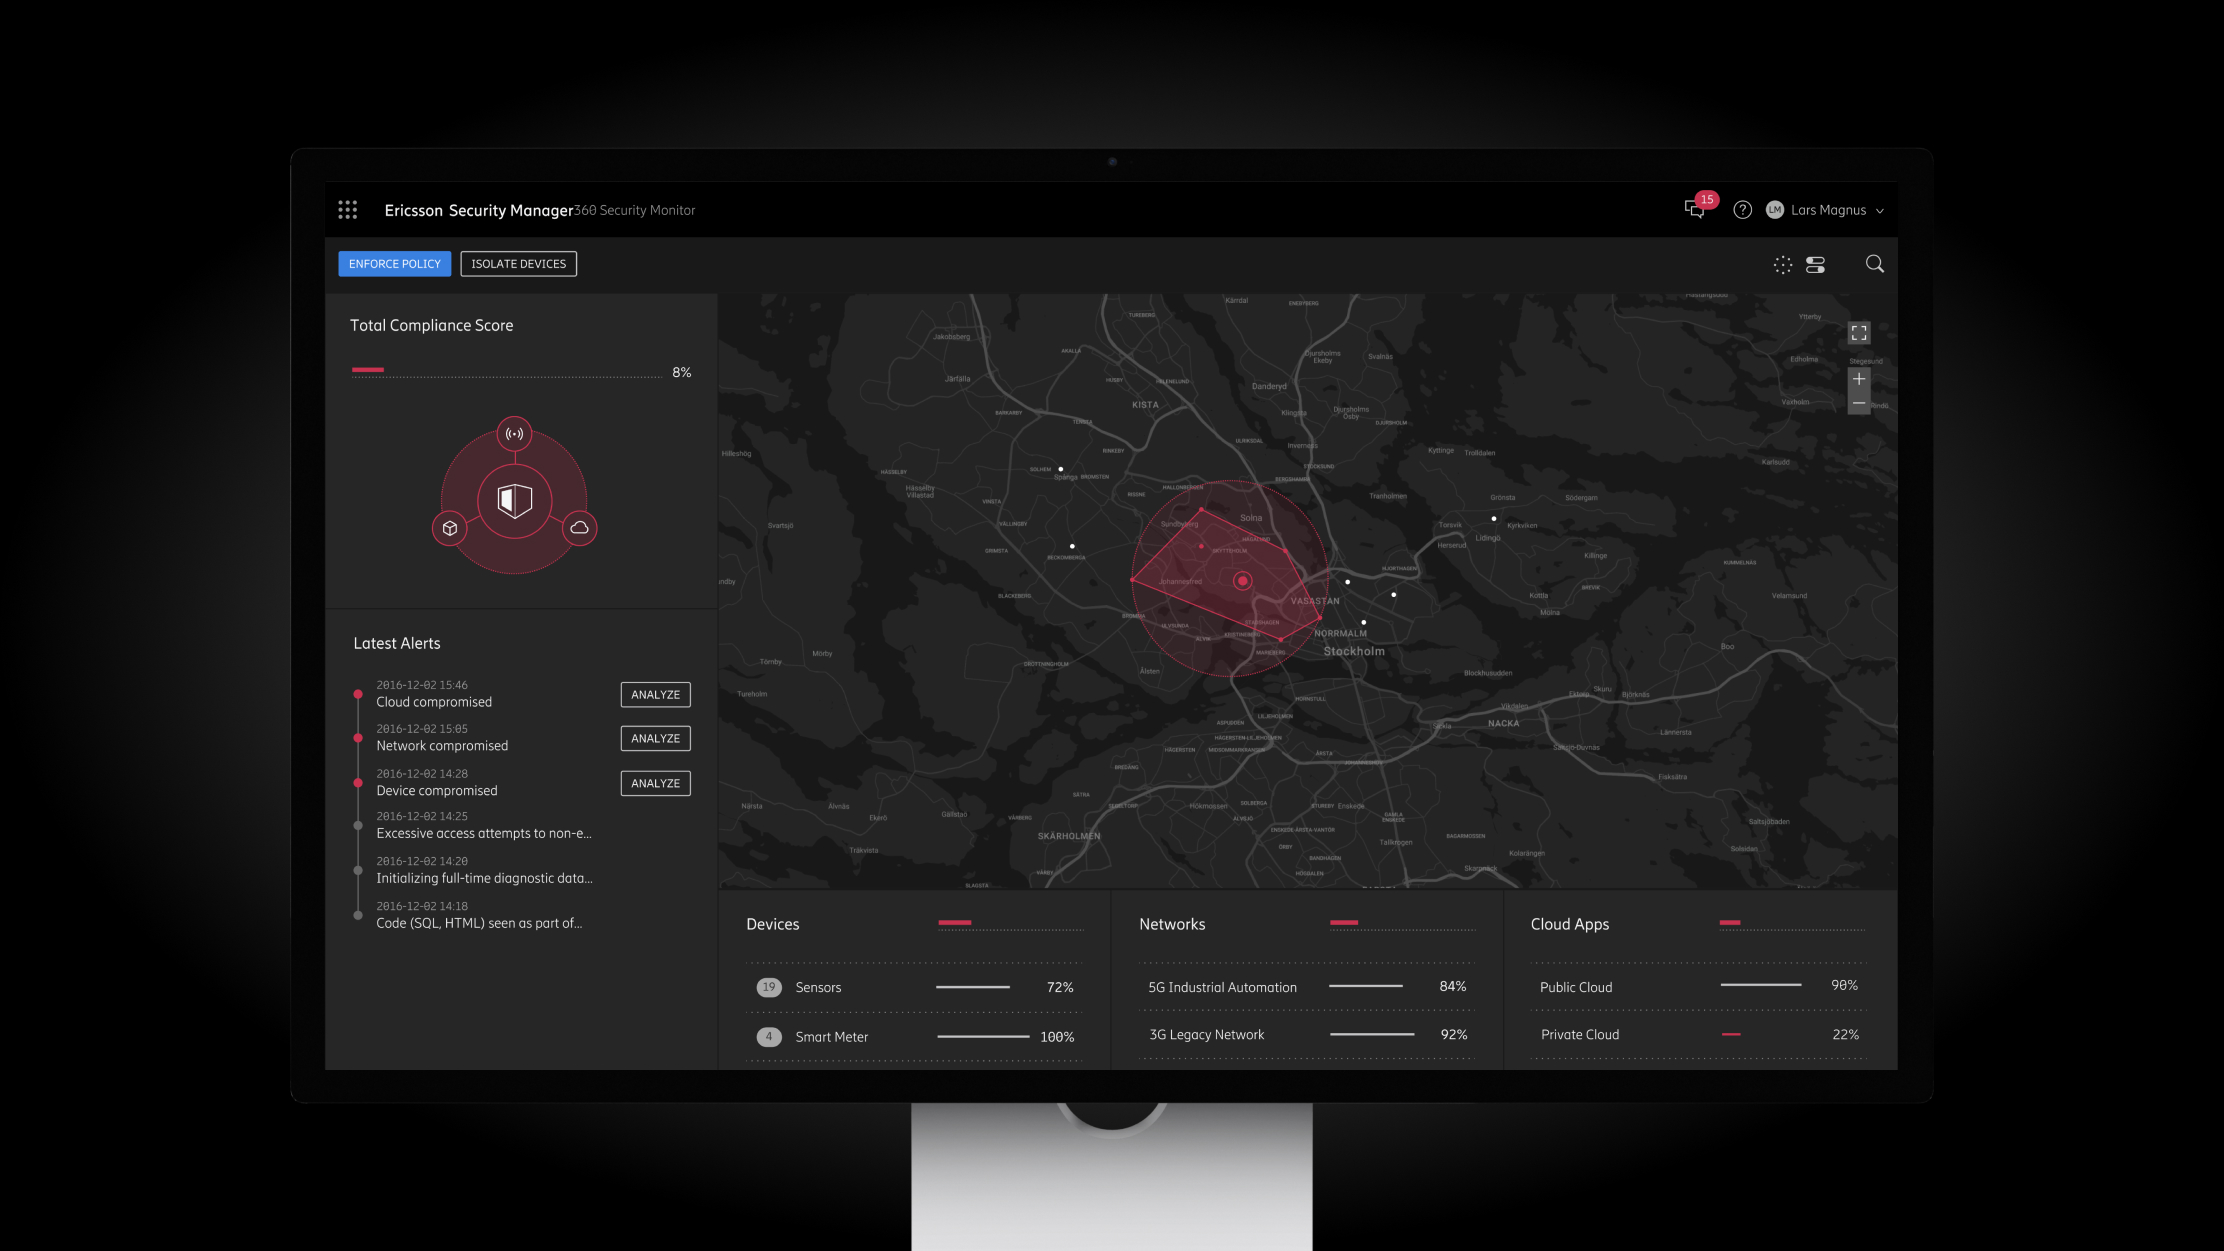
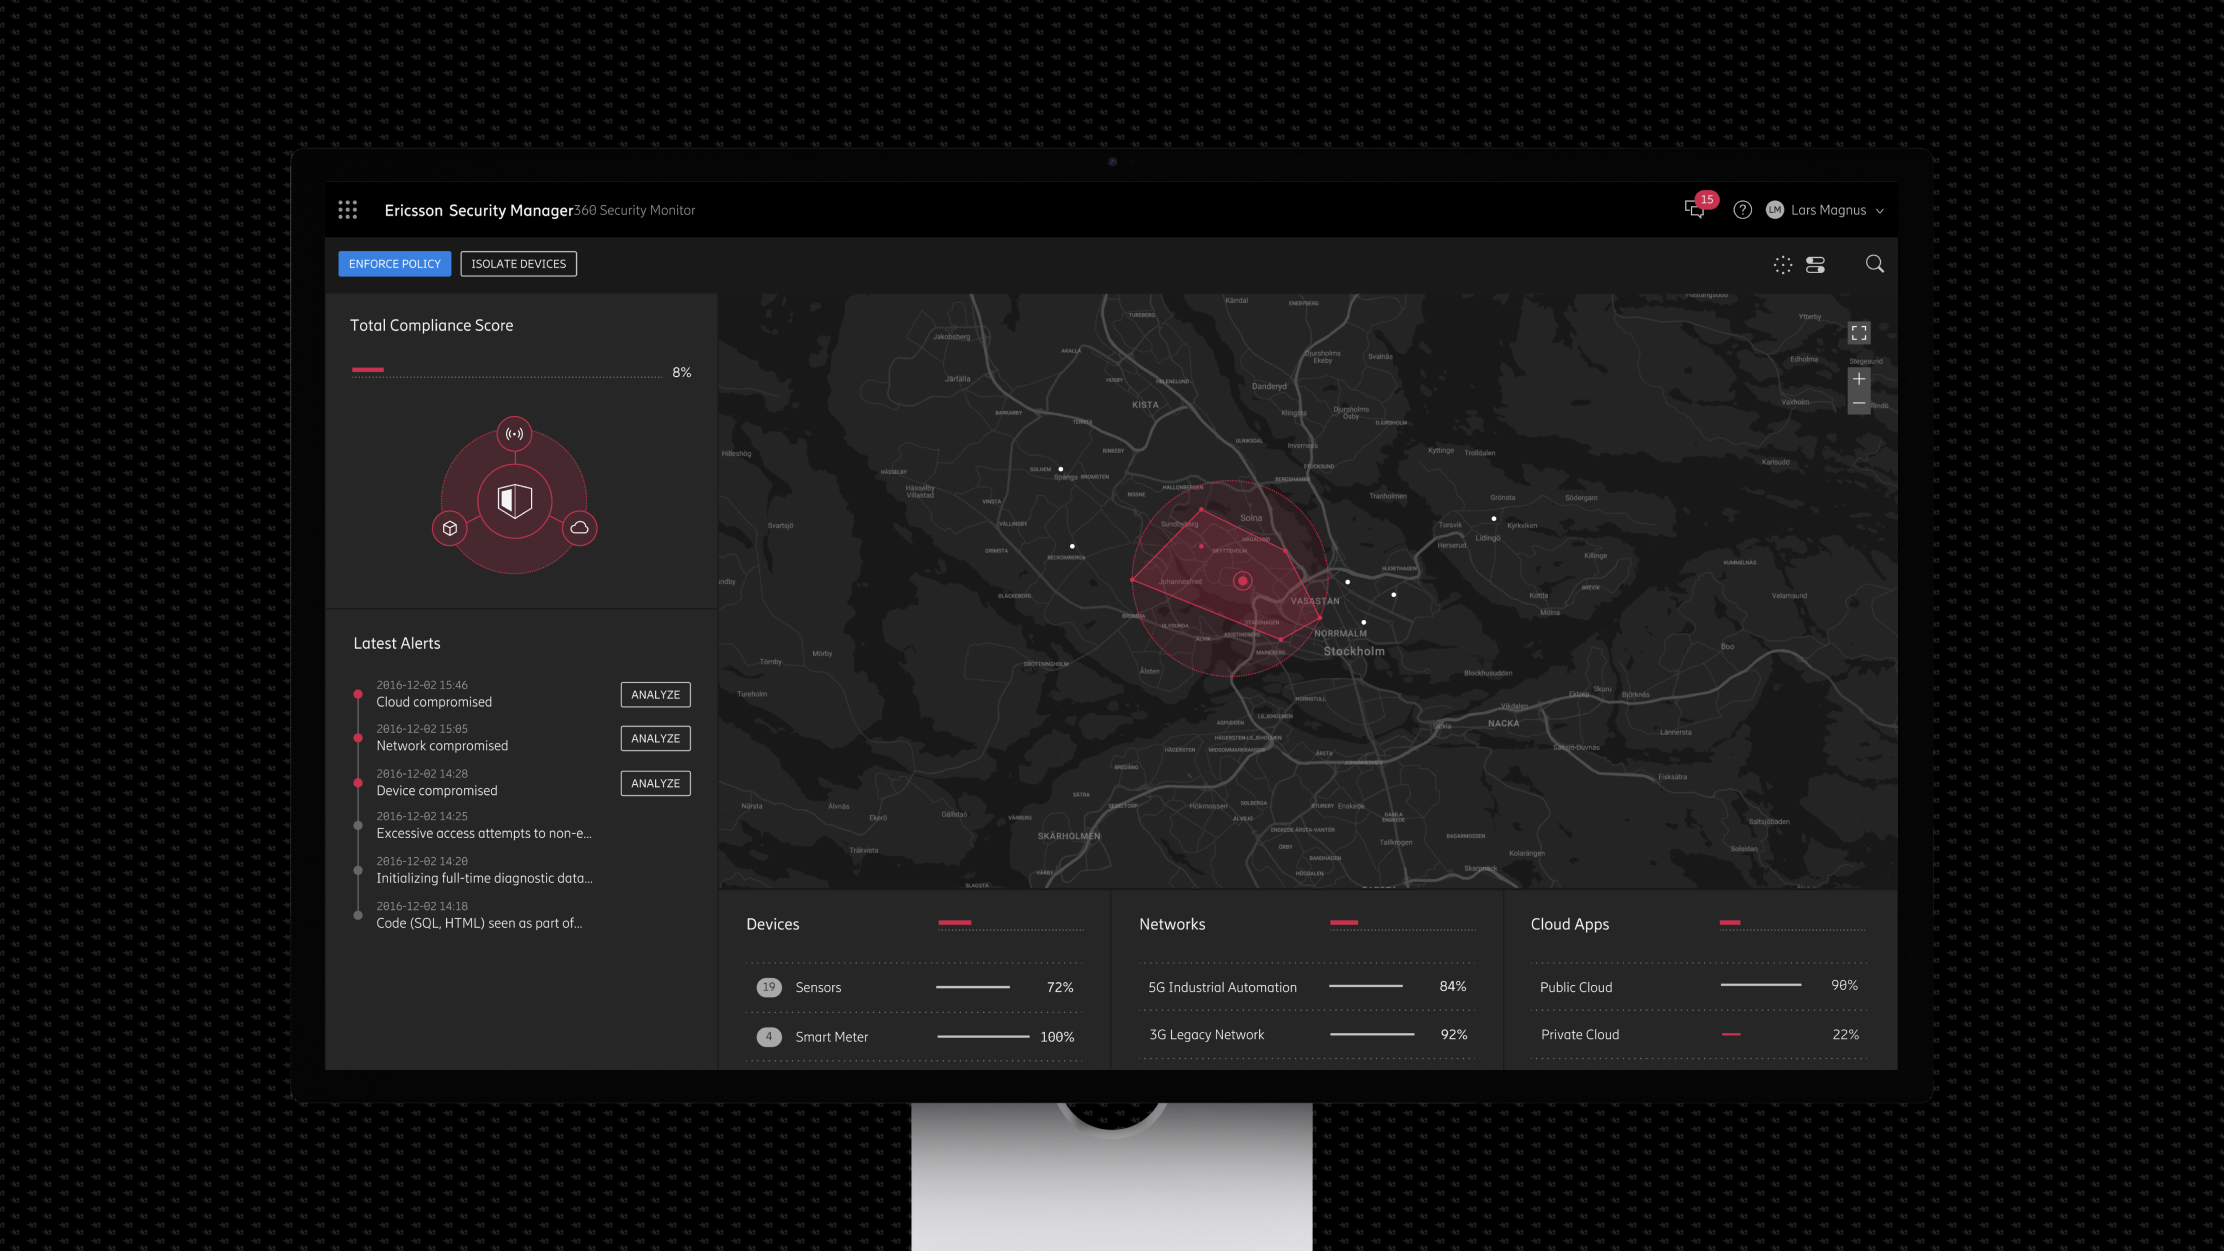
Added draggable stickers to the homepage

diff --git a/src/scripts/components/Sticker.js b/src/scripts/components/Sticker.js
@@ -1,0 +1,58 @@
+class Sticker {
+
+    constructor(element) {
+        this.dom = {
+            sticker: element,
+        }
+
+        this.initialMousePosY = 0;
+        this.initialMousePosX = 0;
+        this.newPosY = 0;
+        this.newPosX = 0;
+    }
+
+    init() {
+        this.eventHandler();
+    }
+
+    eventHandler() {
+        this.dom.sticker.addEventListener('mousedown', (e) => this.dragSticker(e));
+    }
+
+    dragSticker(e) {
+        e.preventDefault();
+
+        this.initialMousePosX = e.clientX;
+        this.initialMousePosY = e.clientY;
+
+        // Store bound handlers so they can be removed later
+        this.moveHandler = (e) => this.moveSticker(e);
+        this.upHandler = (e) => this.dropSticker(e);
+
+        document.addEventListener('mousemove', this.moveHandler);
+        document.addEventListener('mouseup', this.upHandler);
+    }
+
+    moveSticker(e) {
+        e.preventDefault();
+
+        this.newPosY = this.initialMousePosY - e.clientY;
+        this.newPosX = this.initialMousePosX - e.clientX;
+
+        // Set the new initial position
+        this.initialMousePosX = e.clientX;
+        this.initialMousePosY = e.clientY;
+
+        // Set the sticker new position
+        this.dom.sticker.style.top = (this.dom.sticker.offsetTop - this.newPosY) + "px";
+        this.dom.sticker.style.left = (this.dom.sticker.offsetLeft - this.newPosX) + "px";
+    }
+
+    dropSticker(e) {
+        document.removeEventListener('mousemove', this.moveHandler);
+        document.removeEventListener('mouseup', this.upHandler);
+    }
+
+}
+
+export default Sticker;

diff --git a/src/styles/components/_stickers.scss b/src/styles/components/_stickers.scss
@@ -1,0 +1,55 @@
+@use "../variables";
+
+.sticker {
+    position: absolute;
+    margin: 0;
+    width: 120px;
+    height: 120px;
+    overflow: hidden;
+    border-radius: 50%;
+    box-shadow: 
+        0px 0px 0px rgba(3, 7, 18, 0.2),
+        0px 1px 1px rgba(3, 7, 18, 0.16), 
+        1px 1px 2px rgba(3, 7, 18, 0.1),
+        1px 2px 4px rgba(3, 7, 18, 0.04);
+    z-index: var(--z-index-float);
+    cursor: grab;
+
+    &:hover {
+        box-shadow: 
+            0px 0px 0px rgba(3, 7, 18, 0.2),
+            0px 2px 2px rgba(3, 7, 18, 0.16), 
+            2px 2px 4px rgba(3, 7, 18, 0.1),
+            2px 4px 8px rgba(3, 7, 18, 0.04);
+    }
+
+    picture,
+    img {
+        display: block;
+        width: inherit;
+        height: inherit;
+    }
+
+    &#sticker-black {
+        top: 471px;
+        left: 333px;
+        transform: rotate(-6deg);
+    }
+
+    &#sticker-icon {
+        top: 152px;
+        left: 1012px;
+        transform: rotate(5deg);
+    }
+
+    &#sticker-pattern {
+        top: -12px;
+        left: 222px;
+        transform: rotate(-12deg);
+    }
+
+    // REMOVE STICKERS ON SMALLER SCREENS
+    @media only screen and (max-device-width: 1400px) {
+        display: none;
+    }
+}

diff --git a/src/scripts/components/_init.js b/src/scripts/components/_init.js
@@ -7,6 +7,7 @@ import Focus from './Focus';
 import Input from './Input';
 import Name from './Name';
 import Role from './Role';
+import Sticker from './Sticker';
 import Tooltip from './Tooltip';
 import Year from './Year';
 import YearsInSweden from './YearsInSweden';
@@ -19,6 +20,7 @@ const menos = window.menos = {
     Input,
     Name,
     Role,
+    Sticker,
     Tooltip,
     Year,
     YearsInSweden
@@ -93,6 +95,17 @@ export function initComponents() {
             let role = new Role(roleDOM);
 
             role.init();
+        });
+    }
+
+    // STICKER
+    let stickerArray = document.getElementsByClassName('sticker');
+
+    if (stickerArray) {
+        Array.from(stickerArray).forEach(stickerDOM => {
+            let sticker = new Sticker(stickerDOM);
+
+            sticker.init();
         });
     }
 

diff --git a/src/styles/typography.scss b/src/styles/typography.scss
@@ -99,6 +99,7 @@ hgroup {
 
 // PATTERN TEXT
 .pattern {
+    background-color: var(--main-bg-transparency);
     background-image: url("../images/pattern.png");
     background-repeat: repeat;
     background-size: 8px;
@@ -157,7 +158,7 @@ hgroup {
     }
 
     .pattern {
-        background-size: 6px;
+        background-size: 7px;
     }
 }
 
@@ -188,7 +189,7 @@ hgroup {
     }
 
     .pattern {
-        background-size: 4px;
+        background-size: 5px;
     }
 }
 

diff --git a/src/styles/sections/content.scss b/src/styles/sections/content.scss
@@ -36,6 +36,7 @@
                 content: "";
                 position: absolute;
                 inset: 0;
+                background-color: var(--main-text-color);
                 background-image: url(images/pattern.png);
                 background-size: 5%;
                 background-repeat: repeat;

diff --git a/src/styles/components/_avatar.scss b/src/styles/components/_avatar.scss
@@ -12,7 +12,7 @@
     border-radius: var(--border-radius-card);
     mix-blend-mode: multiply;
     cursor: pointer;
-    z-index: var(--z-index-back-to-top);
+    z-index: var(--z-index-float);
 
     picture {
         position: absolute;

diff --git a/src/styles/work/work-main.scss b/src/styles/work/work-main.scss
@@ -41,10 +41,6 @@
         &:last-child {
             margin-bottom: 0;
         }
-
-        &:not(:only-of-type) {
-            margin-bottom: var(--space-extra);
-        }
     }
 
     .summary {

diff --git a/src/styles/variables.scss b/src/styles/variables.scss
@@ -68,6 +68,7 @@
     --border-radius-card: var(--space-base);
 
     // Z-INDEXES
+    --z-index-float: 10;
     --z-index-back-to-top: 100;
     --z-index-tooltip: 10000;
 

diff --git a/src/styles/index.scss b/src/styles/index.scss
@@ -33,6 +33,7 @@
 @use 'components/cursor';
 @use 'components/inputs';
 @use 'components/pills';
+@use 'components/stickers';
 @use 'components/tooltip';
 
 // WORK

diff --git a/src/styles/sections/splash.scss b/src/styles/sections/splash.scss
@@ -1,6 +1,7 @@
 @use "../variables";
 
 #splash {
+    position: relative;
     display: flex;
     flex-direction: column;
     align-items: center;
